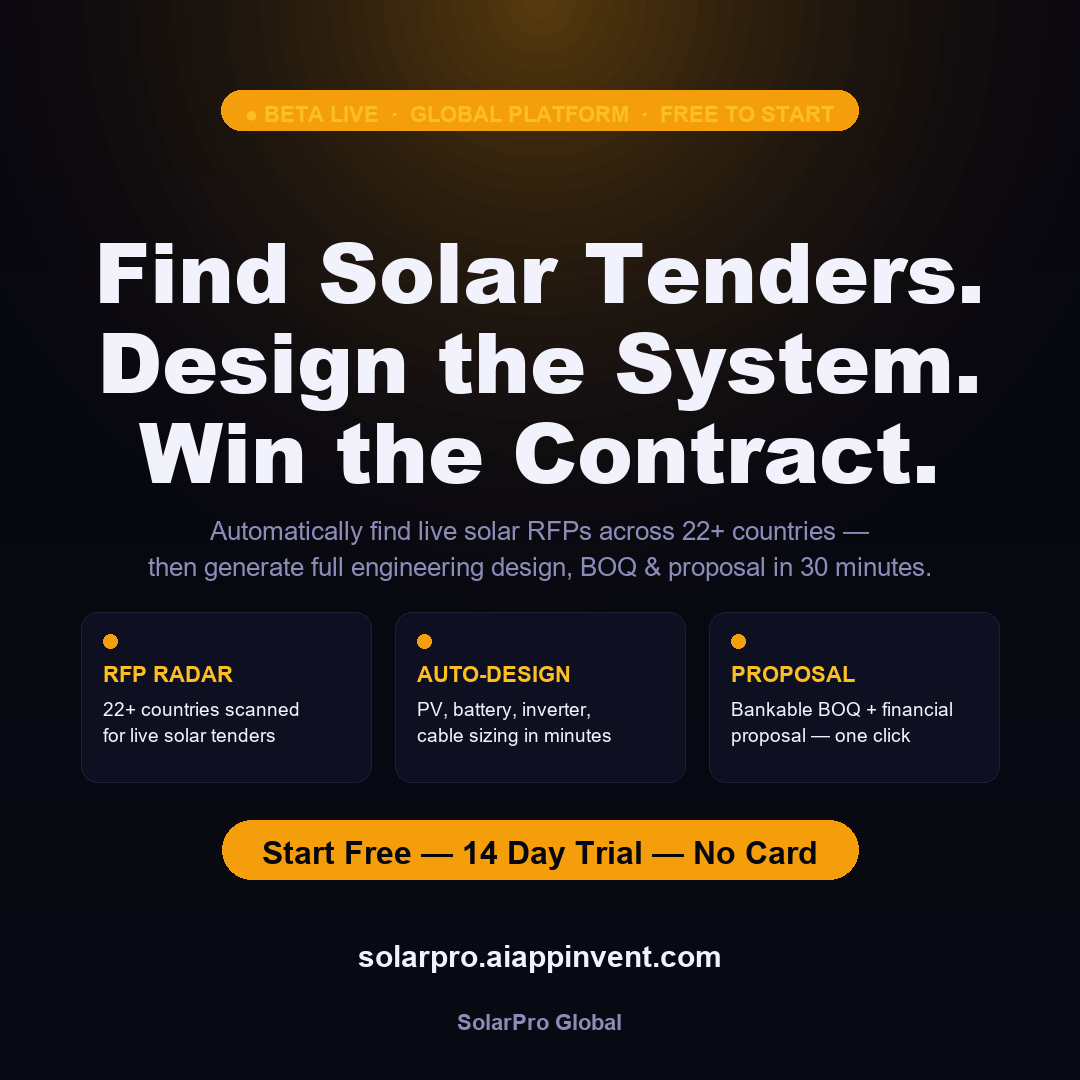
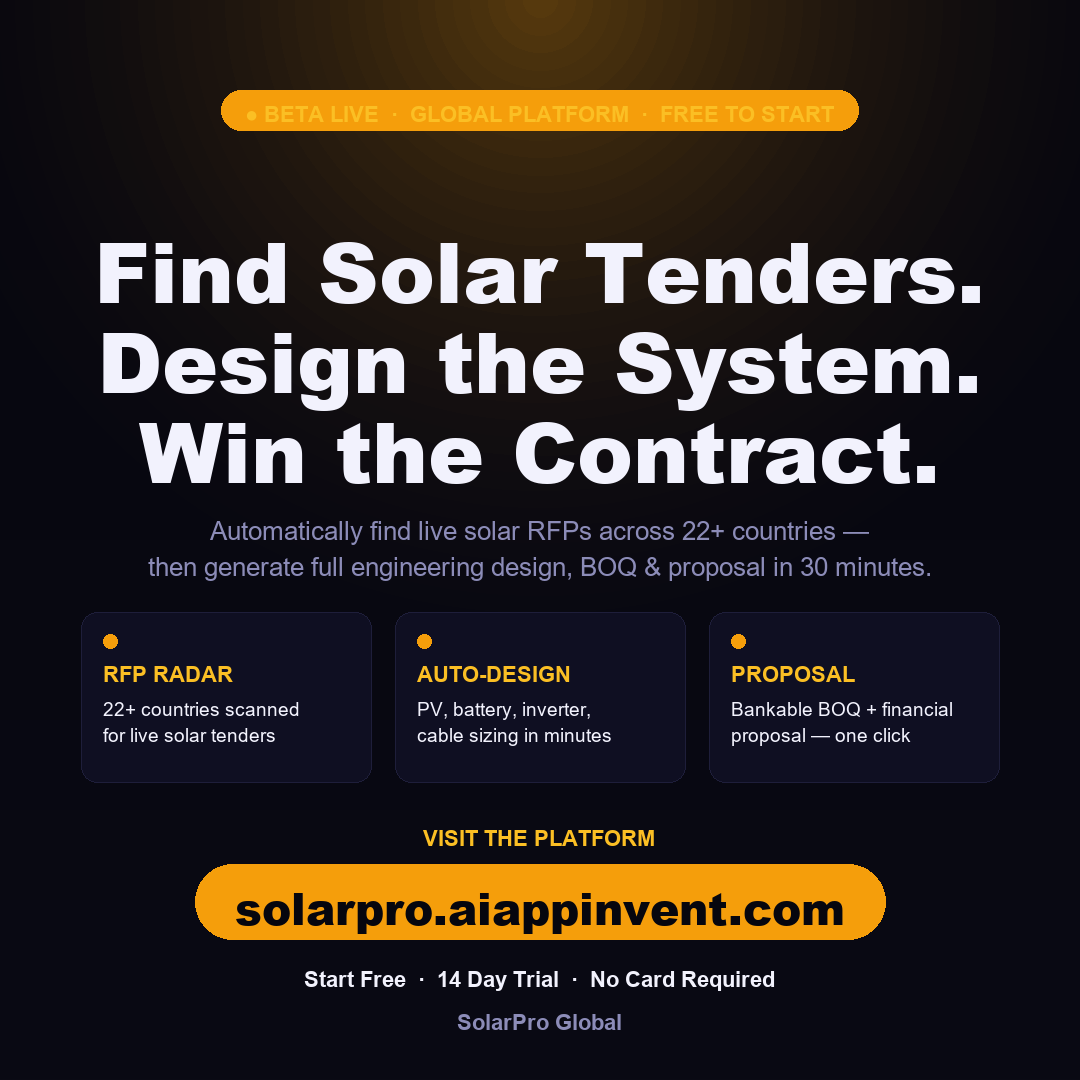
Make URL the primary CTA on beta-launch flyer
Replace the generic "Start Free — 14 Day Trial — No Card" button
with the URL itself (solarpro.aiappinvent.com) rendered as the
gold pill, under a "VISIT THE PLATFORM" label and above a
"Start Free · 14 Day Trial · No Card Required" trust line. Same
treatment on the 1200x628. Drops a tofu-box glyph that Arial
couldn't render.

Changed region(s): [[0.1833, 0.7333, 0.825, 0.9167]]

diff --git a/scripts/build_beta_flyer.py b/scripts/build_beta_flyer.py
@@ -147,25 +147,32 @@ def build_square():
         for li, bl in enumerate(body.split("\n")):
             d.text((x + 22, tile_y + 86 + li * 26), bl, font=body_f, fill=TEXT)
 
-    # CTA — gold filled rounded button
-    cta_text = "Start Free — 14 Day Trial — No Card"
-    cta_f = font(F_ARIAL_BOLD, 32)
-    cw, ch = measure(d, cta_text, cta_f)
-    cx0 = (W - (cw + 80)) // 2
-    cy0 = tile_y + tile_h + 38
-    rounded_rect(d, (cx0, cy0, cx0 + cw + 80, cy0 + ch + 30), 32, fill=GOLD)
-    d.text((cx0 + 40, cy0 + 15), cta_text, font=cta_f, fill=BG_DEEP)
+    # "VISIT THE PLATFORM" — explicit call-to-action label
+    label = "VISIT THE PLATFORM"
+    label_f = font(F_ARIAL_BOLD, 22)
+    lw, lh = measure(d, label, label_f)
+    label_y = tile_y + tile_h + 44
+    d.text(((W - lw) // 2, label_y), label, font=label_f, fill=GOLD_LIGHT)
 
-    # URL
-    url = "solarpro.aiappinvent.com"
-    url_f = font(F_ARIAL_BOLD, 30)
-    uw, uh = measure(d, url, url_f)
-    d.text(((W - uw) // 2, cy0 + ch + 90), url, font=url_f, fill=TEXT)
+    # URL itself IS the gold-pill CTA — biggest, most prominent
+    url_text = "solarpro.aiappinvent.com"
+    url_f = font(F_ARIAL_BLACK, 44)
+    uw, uh = measure(d, url_text, url_f)
+    cx0 = (W - (uw + 80)) // 2
+    cy0 = label_y + lh + 22
+    rounded_rect(d, (cx0, cy0, cx0 + uw + 80, cy0 + uh + 34), 38, fill=GOLD)
+    d.text((cx0 + 40, cy0 + 12), url_text, font=url_f, fill=BG_DEEP)
+
+    # Trust line under URL — what you get when you visit
+    sub_cta = "Start Free  ·  14 Day Trial  ·  No Card Required"
+    sc_f = font(F_ARIAL_BOLD, 22)
+    sw, _ = measure(d, sub_cta, sc_f)
+    d.text(((W - sw) // 2, cy0 + uh + 62), sub_cta, font=sc_f, fill=TEXT)
 
     # Brand mark — bottom
     brand = "SolarPro Global"
     bf = font(F_ARIAL_BOLD, 22)
-    bw2, bh2 = measure(d, brand, bf)
+    bw2, _ = measure(d, brand, bf)
     d.text(((W - bw2) // 2, H - 70), brand, font=bf, fill=MUTED)
 
     out = OUT_DIR / "SolarPro_Beta_Flyer_1080.png"
@@ -226,7 +233,7 @@ def build_wide():
     d.text((R_X + 28, card_y + 78), "Start Free.", font=title_f, fill=TEXT)
     d.text((R_X + 28, card_y + 120), "14 Day Trial.", font=title_f, fill=TEXT)
 
-    # Card body — value bullets
+    # Card body — value bullets (tighter to make room for VISIT block)
     body_f = font(F_ARIAL, 18)
     bullets = [
         "Live tender + RFP feed",
@@ -234,20 +241,26 @@ def build_wide():
         "BOQ + financial proposal",
         "BS 7671 / IEC 60364 compliant",
     ]
-    by = card_y + 200
+    by = card_y + 188
     for b in bullets:
         d.text((R_X + 28, by), "•", font=body_f, fill=GOLD)
         d.text((R_X + 50, by), b, font=body_f, fill=TEXT)
-        by += 32
+        by += 28
 
-    # CTA pill at bottom of card
+    # "VISIT" prompt above URL pill — explicit direction
+    visit_f = font(F_ARIAL_BOLD, 14)
+    visit = "VISIT THE PLATFORM"
+    vw, _ = measure(d, visit, visit_f)
+    d.text((R_X + (card_w - vw) // 2, card_y + card_h - 96), visit, font=visit_f, fill=GOLD_LIGHT)
+
+    # URL pill at bottom of card — the action target
     cta = "solarpro.aiappinvent.com"
-    cta_f = font(F_ARIAL_BOLD, 22)
+    cta_f = font(F_ARIAL_BLACK, 24)
     cw, ch = measure(d, cta, cta_f)
     cx0 = R_X + (card_w - (cw + 40)) // 2
     cy0 = card_y + card_h - 70
     rounded_rect(d, (cx0, cy0, cx0 + cw + 40, cy0 + ch + 22), 26, fill=GOLD)
-    d.text((cx0 + 20, cy0 + 10), cta, font=cta_f, fill=BG_DEEP)
+    d.text((cx0 + 20, cy0 + 9), cta, font=cta_f, fill=BG_DEEP)
 
     # Brand mark — bottom left
     brand = "SolarPro Global"